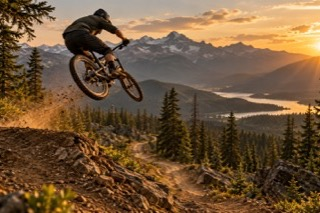
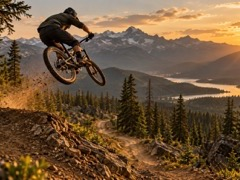
Match VOD thumbnails to default listing size

diff --git a/video-share-vod/README.md b/video-share-vod/README.md
@@ -4,6 +4,6 @@ Static, lightweight poster images for the Video Share VOD WordPress Playground b
 
 The blueprint downloads these files into the disposable Playground upload directory. They are not bundled in the WordPress.org plugin ZIP, are not fetched by normal plugin installations, and are not videos or preview clips.
 
-`images/originals/` contains the full poster shown on an individual demo-video page. `images/thumbnails/` contains centered 320×213 derivatives that match the VOD listing-card aspect ratio. They are resized to cover and then center-cropped only where necessary; originals are never altered.
+`images/originals/` contains the full poster shown on an individual demo-video page. `images/thumbnails/` contains centered 240×180 derivatives that match Video Share VOD's default listing-card aspect ratio. They are resized to cover and then center-cropped only where necessary; originals are never altered.
 
 See `CREDITS.txt` for the license and `PROMPTS.md` for reproducible generation prompts.

diff --git a/video-share-vod/PROMPTS.md b/video-share-vod/PROMPTS.md
@@ -32,4 +32,4 @@ Photorealistic cinematic VOD poster still, 16:9 landscape, of two playful house 
 
 ## Stand-up show
 
-Photorealistic cinematic VOD poster still of a dynamic stand-up comedy show in a warmly lit small theatre. A generic adult comedian holds an unbranded microphone on stage, with a softly blurred adult audience reacting naturally. Center the performer with safe headroom and side margins for a centered 320×213 listing crop. No celebrity or recognizable public figure.
+Photorealistic cinematic VOD poster still of a dynamic stand-up comedy show in a warmly lit small theatre. A generic adult comedian holds an unbranded microphone on stage, with a softly blurred adult audience reacting naturally. Center the performer with safe headroom and side margins for a centered 240×180 listing crop. No celebrity or recognizable public figure.
